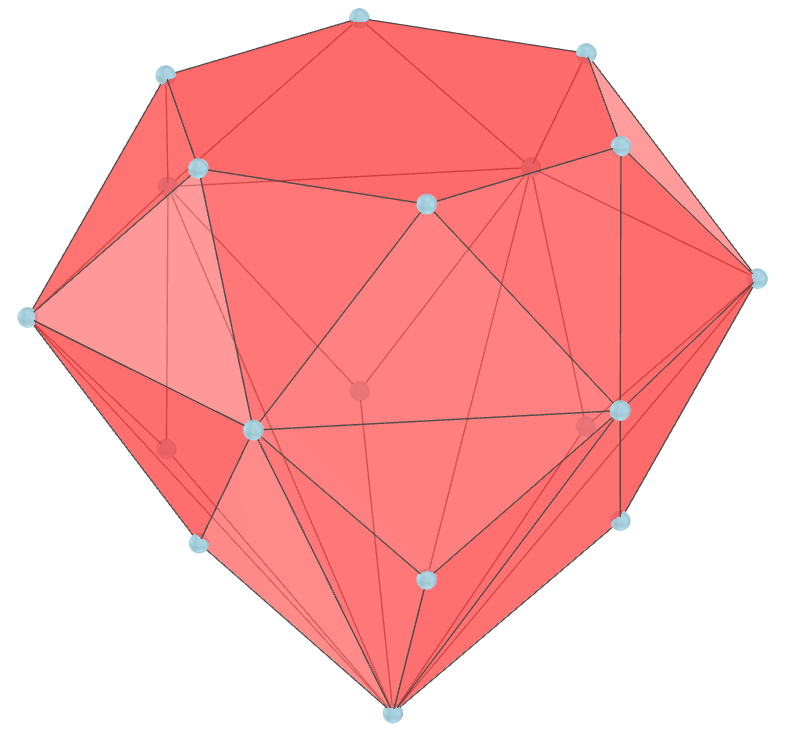
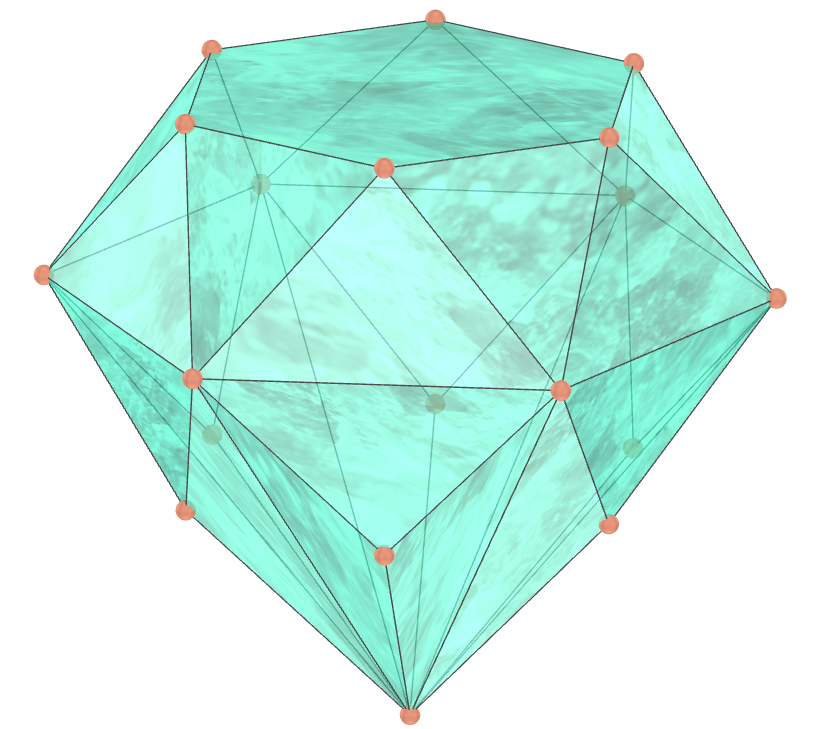
update

diff --git a/diamonds/vr/PentagonalCupola.htm b/diamonds/vr/PentagonalCupola.htm
@@ -40,7 +40,7 @@
 			<a-sphere mixin='esfera' position='-0.5 -0.30902 0.80902'></a-sphere>
 			<a-sphere mixin='esfera' position='0.0 1.0 0.0'></a-sphere>
 			<a-sphere mixin='esfera' position='1.61803 0.0 0.0'></a-sphere>
-			<a-sphere mixin='esfera' position='0 -0.62 -1.2'></a-sphere>
+			<a-sphere mixin='esfera' position='0 -0.72 -1.14'></a-sphere>
 		</a-entity>
 		
 		<a-entity camera="fov:1; near:1;" orbit-controls="target: 0 0 0; maxPolarAngle: 180; minDistance: 0.5; initialPosition: 200 150 700; maxDistance: 1500;"></a-entity>
